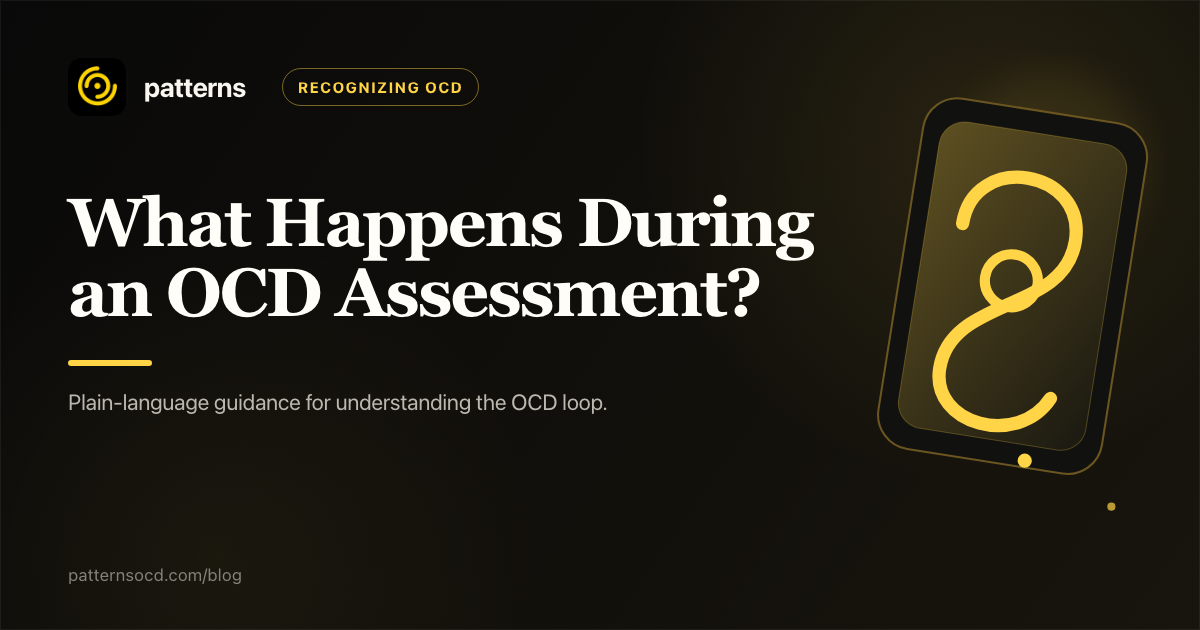
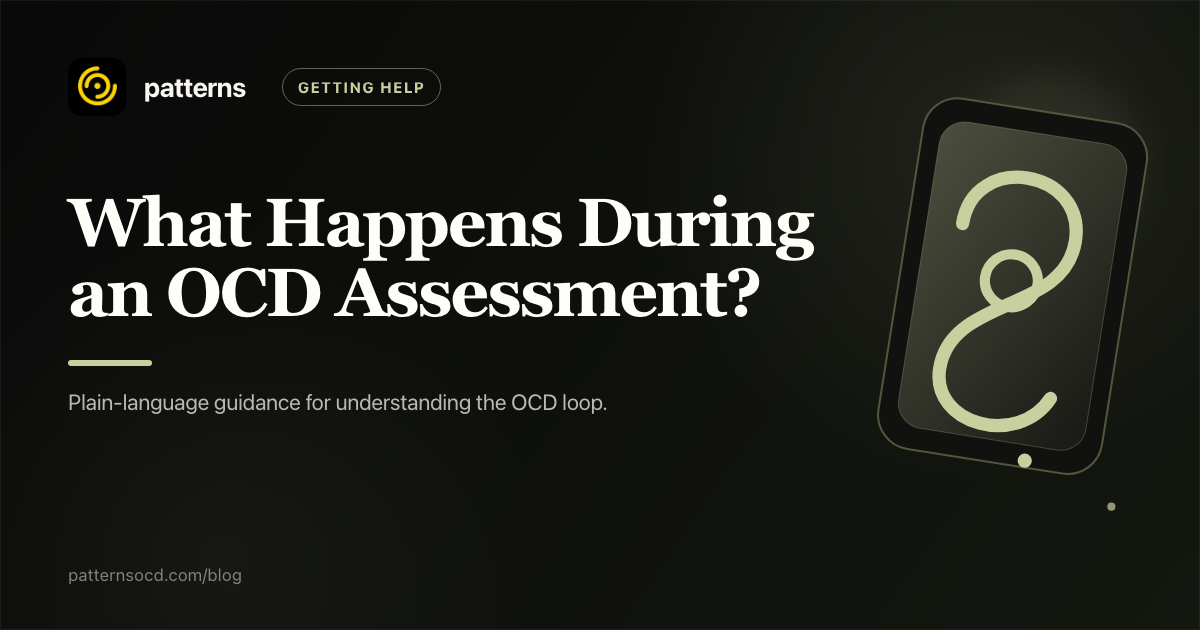
Add Getting Help blog category

diff --git a/website/e2e/blog-categories.spec.ts b/website/e2e/blog-categories.spec.ts
@@ -1,0 +1,38 @@
+import { expect, test } from '@playwright/test';
+
+const gettingHelpArticles = [
+  'what-happens-during-an-ocd-assessment',
+  'how-to-find-an-ocd-therapist',
+  'medication-for-ocd',
+  'what-to-expect-first-erp-sessions'
+];
+
+test('offers six blog categories and a populated Getting Help collection', async ({ page, request }) => {
+  await page.goto('/blog');
+  const categoryNav = page.getByRole('navigation', { name: 'Browse the OCD information library' });
+  await expect(categoryNav.getByRole('link')).toHaveCount(6);
+  await categoryNav.getByRole('link', { name: /Getting Help/ }).click();
+
+  await expect(page).toHaveURL(/\/learn\/getting-help$/);
+  await expect(page.getByRole('heading', { level: 1, name: 'Getting Help' })).toBeVisible();
+  await expect(page.locator('.post-card')).toHaveCount(4);
+
+  for (const slug of gettingHelpArticles) {
+    await expect(page.locator(`.post-card h2 a[href="/blog/${slug}"]`)).toHaveCount(1);
+    const article = await request.get(`/blog/${slug}`);
+    expect(article.ok(), slug).toBe(true);
+    expect(await article.text(), slug).toContain('href="/learn/getting-help"');
+  }
+
+  const sitemap = await (await request.get('/sitemap.xml')).text();
+  expect(sitemap).toContain('https://patternsocd.com/learn/getting-help');
+});
+
+test('keeps all six library cards in the viewport', async ({ page }) => {
+  await page.goto('/learn');
+  await expect(page.locator('.category-card')).toHaveCount(6);
+  await expect(page.locator('.category-card .explore[href="/learn/getting-help"]')).toBeVisible();
+  expect(
+    await page.evaluate(() => document.documentElement.scrollWidth <= window.innerWidth)
+  ).toBe(true);
+});

diff --git a/website/src/routes/learn/+page.svelte b/website/src/routes/learn/+page.svelte
@@ -13,7 +13,7 @@
       '@type': 'CollectionPage',
       name: 'OCD Information Library',
       description:
-        'Evidence-led OCD guides and lived-experience essays organized around recognizing OCD, themes, treatment, daily life, and personal stories.',
+        'Evidence-led OCD guides and lived-experience essays organized around recognizing OCD, themes, getting help, treatment, daily life, and personal stories.',
       url: links.library,
       isPartOf: { '@type': 'WebSite', name: 'Patterns', url: links.site },
       mainEntity: {
@@ -164,10 +164,6 @@
     background: var(--bg);
   }
 
-  .category-card:last-child {
-    grid-column: 1 / -1;
-  }
-
   .card-head {
     display: flex;
     align-items: flex-start;
@@ -274,8 +270,5 @@
       grid-template-columns: 1fr;
     }
 
-    .category-card:last-child {
-      grid-column: auto;
-    }
   }
 </style>

diff --git a/website/src/lib/data/blog.test.ts b/website/src/lib/data/blog.test.ts
@@ -136,7 +136,16 @@ describe('blog posts', () => {
       expect(getBlogCategory(post.category), post.slug).toBeDefined();
       expect(['evidence-guide', 'personal-essay'], post.slug).toContain(post.contentType);
     }
-    expect(blogCategories.map((category) => category.slug)).toHaveLength(5);
+    expect(blogCategories.map((category) => category.slug)).toHaveLength(6);
+    expect(blogCategories.map((category) => category.slug)).toContain('getting-help');
+    for (const slug of [
+      'what-happens-during-an-ocd-assessment',
+      'how-to-find-an-ocd-therapist',
+      'medication-for-ocd',
+      'what-to-expect-first-erp-sessions'
+    ]) {
+      expect(getPost(slug)?.category, slug).toBe('getting-help');
+    }
   });
 
   it('resolves every manually listed related slug', () => {

diff --git a/website/src/lib/data/blog.ts b/website/src/lib/data/blog.ts
@@ -48,6 +48,14 @@ export const blogCategories = [
       'OCD can attach to almost anything a person values. These guides focus on the shared cycle underneath different themes, including the compulsions that are easy to miss.'
   },
   {
+    slug: 'getting-help',
+    label: 'Getting Help',
+    description:
+      'Find out what an OCD assessment involves, how to choose informed care, and what early treatment may look like.',
+    intro:
+      'Considering professional support? These guides cover assessment, finding an OCD-informed therapist, discussing medication, and starting ERP. They can help you prepare questions, not diagnose you or choose treatment for you.'
+  },
+  {
     slug: 'treatment-erp',
     label: 'Treatment & ERP',
     description:

diff --git a/website/src/routes/sitemap.xml/+server.ts b/website/src/routes/sitemap.xml/+server.ts
@@ -62,7 +62,7 @@ const staticEntries: Entry[] = [
   { path: 'erp', lastmod: STATIC_LASTMOD, changefreq: 'monthly', priority: '0.8' },
   { path: 'cbt', lastmod: STATIC_LASTMOD, changefreq: 'monthly', priority: '0.8' },
   { path: 'toolkit', lastmod: STATIC_LASTMOD, changefreq: 'monthly', priority: '0.8' },
-  { path: 'learn', lastmod: STATIC_LASTMOD, changefreq: 'weekly', priority: '0.9' },
+  { path: 'learn', lastmod: '2026-10-20', changefreq: 'weekly', priority: '0.9' },
   {
     path: 'about/aftaab-siddiqui',
     lastmod: STATIC_LASTMOD,

diff --git a/website/src/content/blog/medication-for-ocd.md b/website/src/content/blog/medication-for-ocd.md
@@ -5,7 +5,7 @@ date: '2026-09-18'
 updated: '2026-09-18'
 readingMinutes: 10
 excerpt: 'Medication for OCD is usually a gradual, clinician-guided process rather than a quick test. Here is how SSRIs fit with ERP, what an adequate trial can involve, and what to discuss with a prescriber.'
-category: treatment-erp
+category: getting-help
 contentType: evidence-guide
 draft: false
 tags: [ocd-basics, erp]

diff --git a/website/src/content/blog/what-happens-during-an-ocd-assessment.md b/website/src/content/blog/what-happens-during-an-ocd-assessment.md
@@ -5,7 +5,7 @@ date: '2026-08-22'
 updated: '2026-08-22'
 readingMinutes: 10
 excerpt: 'An OCD assessment is not an exam you pass by describing the thought correctly. It is a conversation about the pattern: what shows up, what you do next, and what it costs.'
-category: recognizing-ocd
+category: getting-help
 contentType: evidence-guide
 draft: false
 tags: [ocd-basics, erp]

diff --git a/website/src/content/blog/what-to-expect-first-erp-sessions.md b/website/src/content/blog/what-to-expect-first-erp-sessions.md
@@ -5,7 +5,7 @@ date: '2026-09-13'
 updated: '2026-09-13'
 readingMinutes: 9
 excerpt: 'Early ERP is usually quieter than people imagine: mapping the loop, agreeing on goals, building a hierarchy, and trying a planned first exercise together.'
-category: treatment-erp
+category: getting-help
 contentType: evidence-guide
 draft: false
 tags: [erp, ocd-basics]

diff --git a/website/src/content/blog/how-to-find-an-ocd-therapist.md b/website/src/content/blog/how-to-find-an-ocd-therapist.md
@@ -5,7 +5,7 @@ date: '2026-09-13'
 updated: '2026-09-13'
 readingMinutes: 9
 excerpt: 'A licence tells you someone can practise therapy. A few direct questions can tell you whether they understand OCD and actually use ERP.'
-category: treatment-erp
+category: getting-help
 contentType: evidence-guide
 draft: false
 tags: [erp, ocd-basics]
